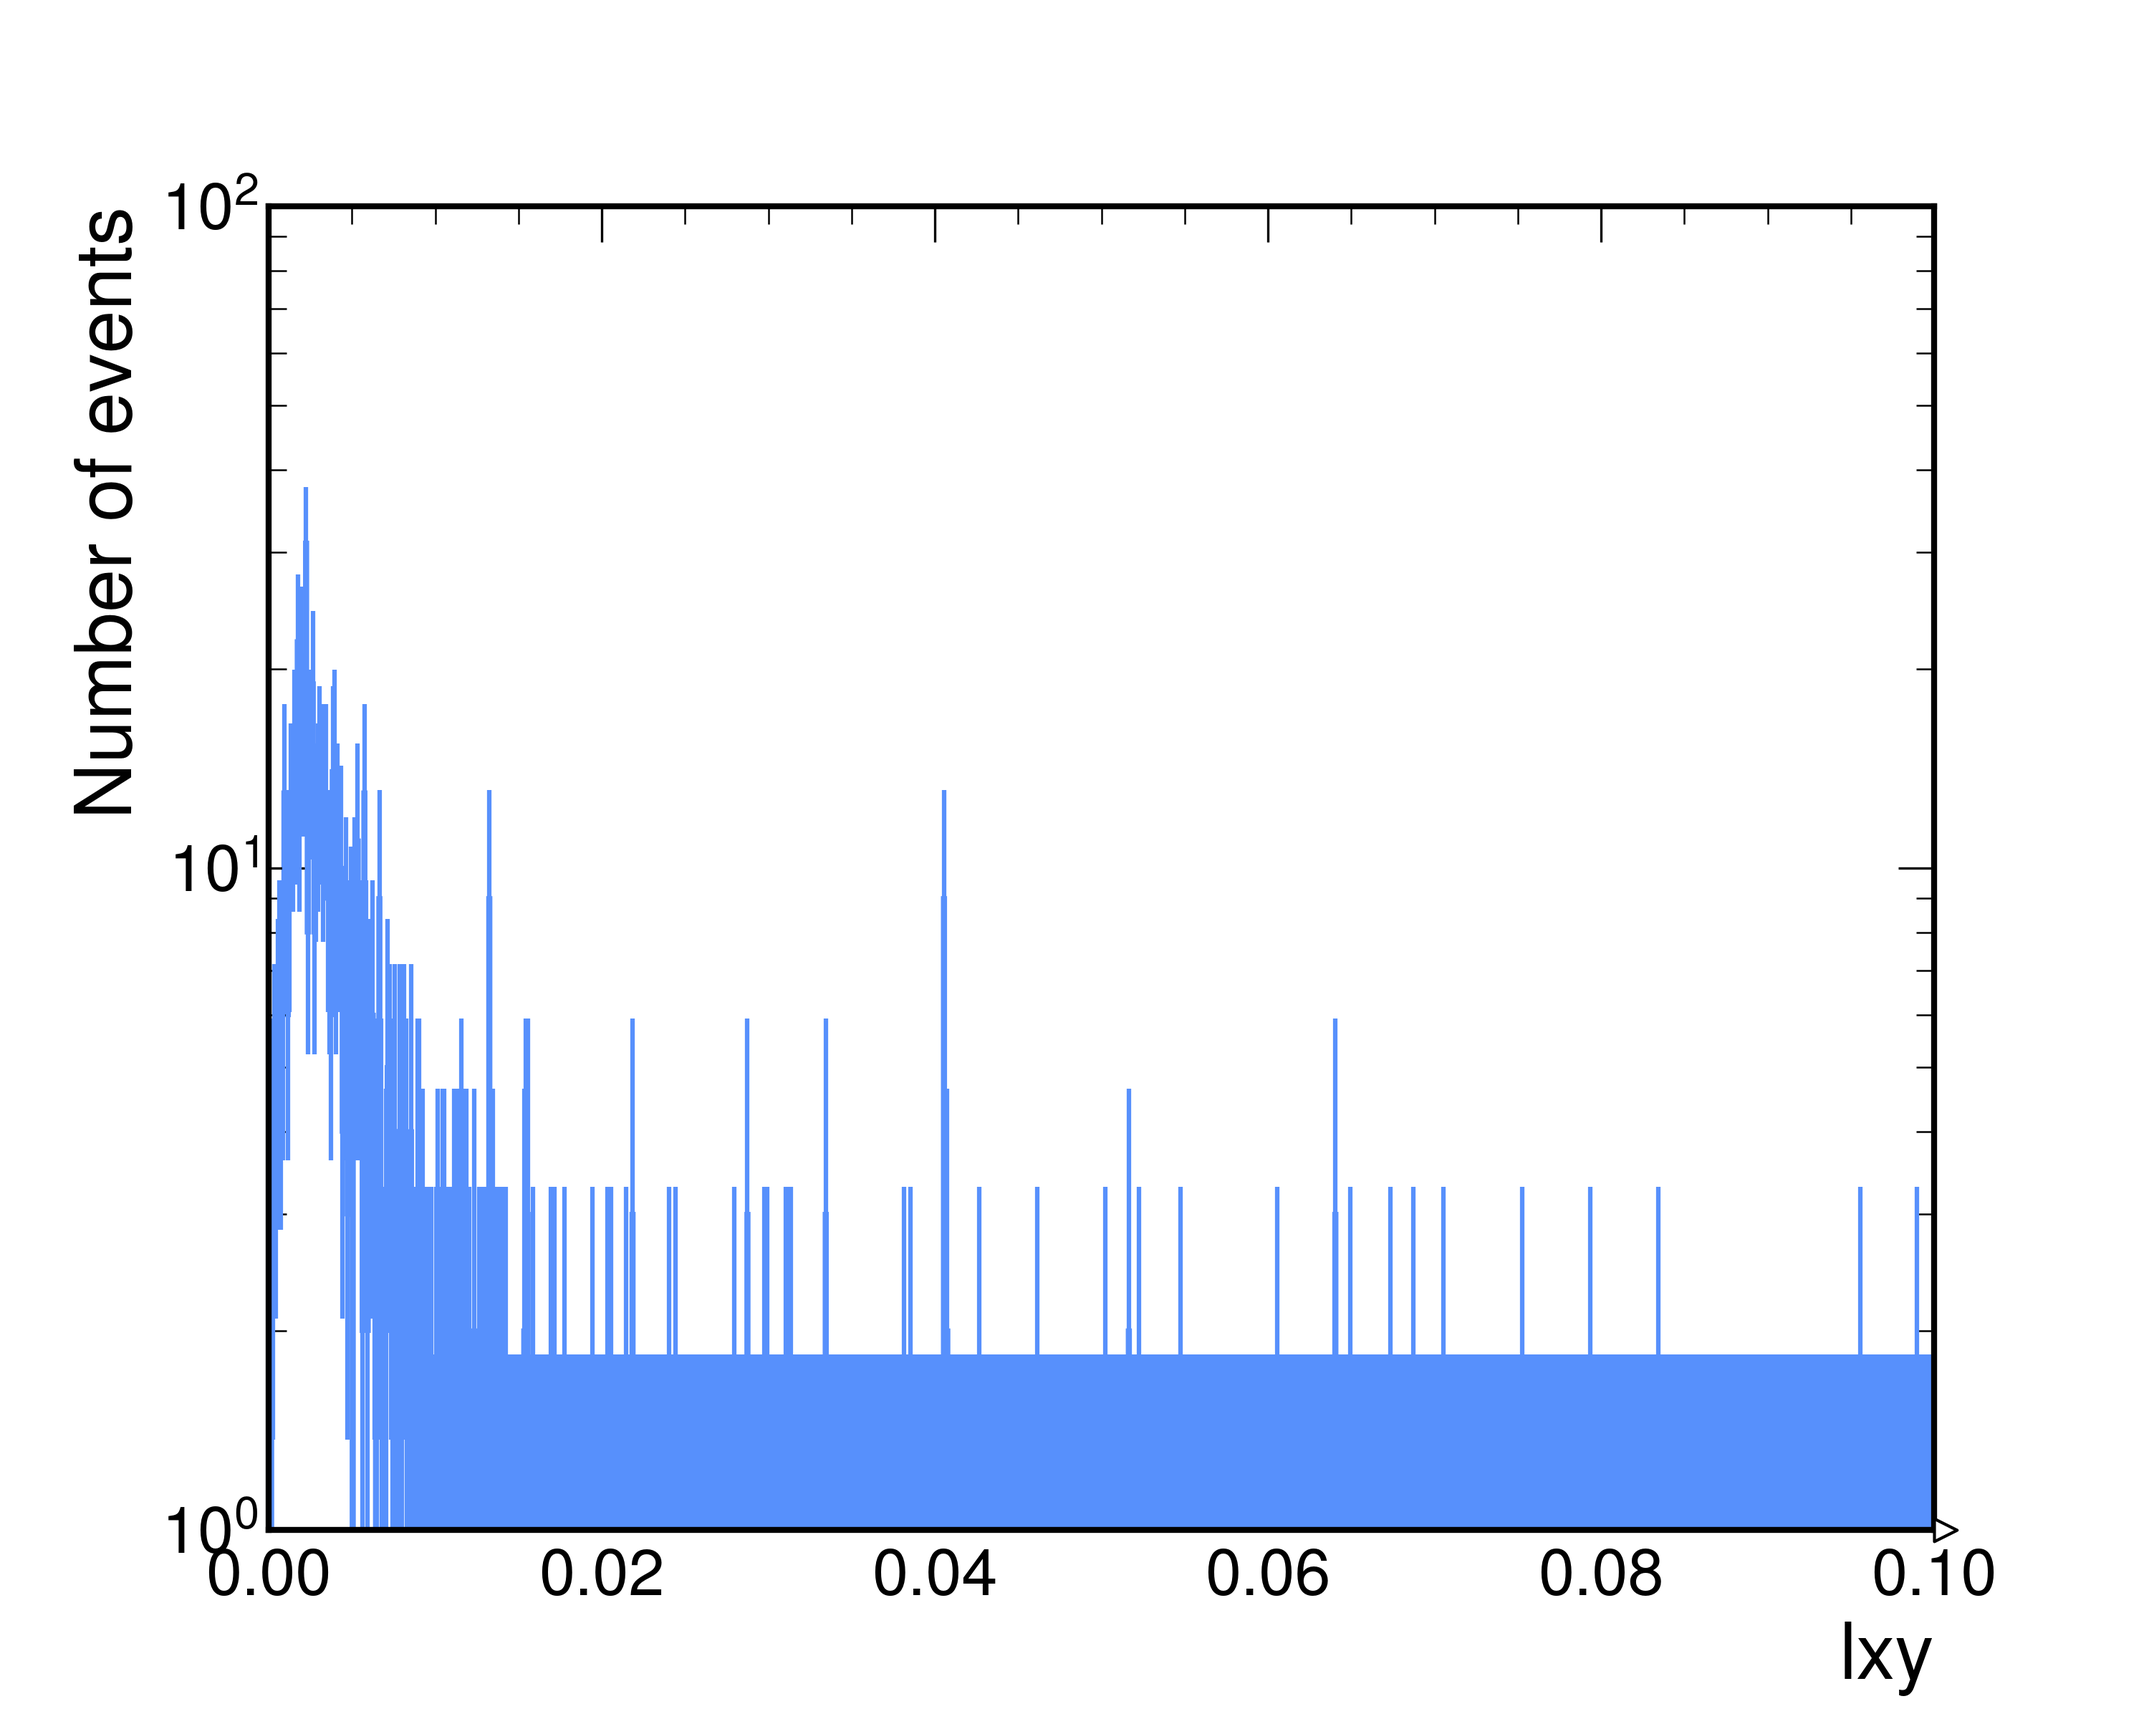
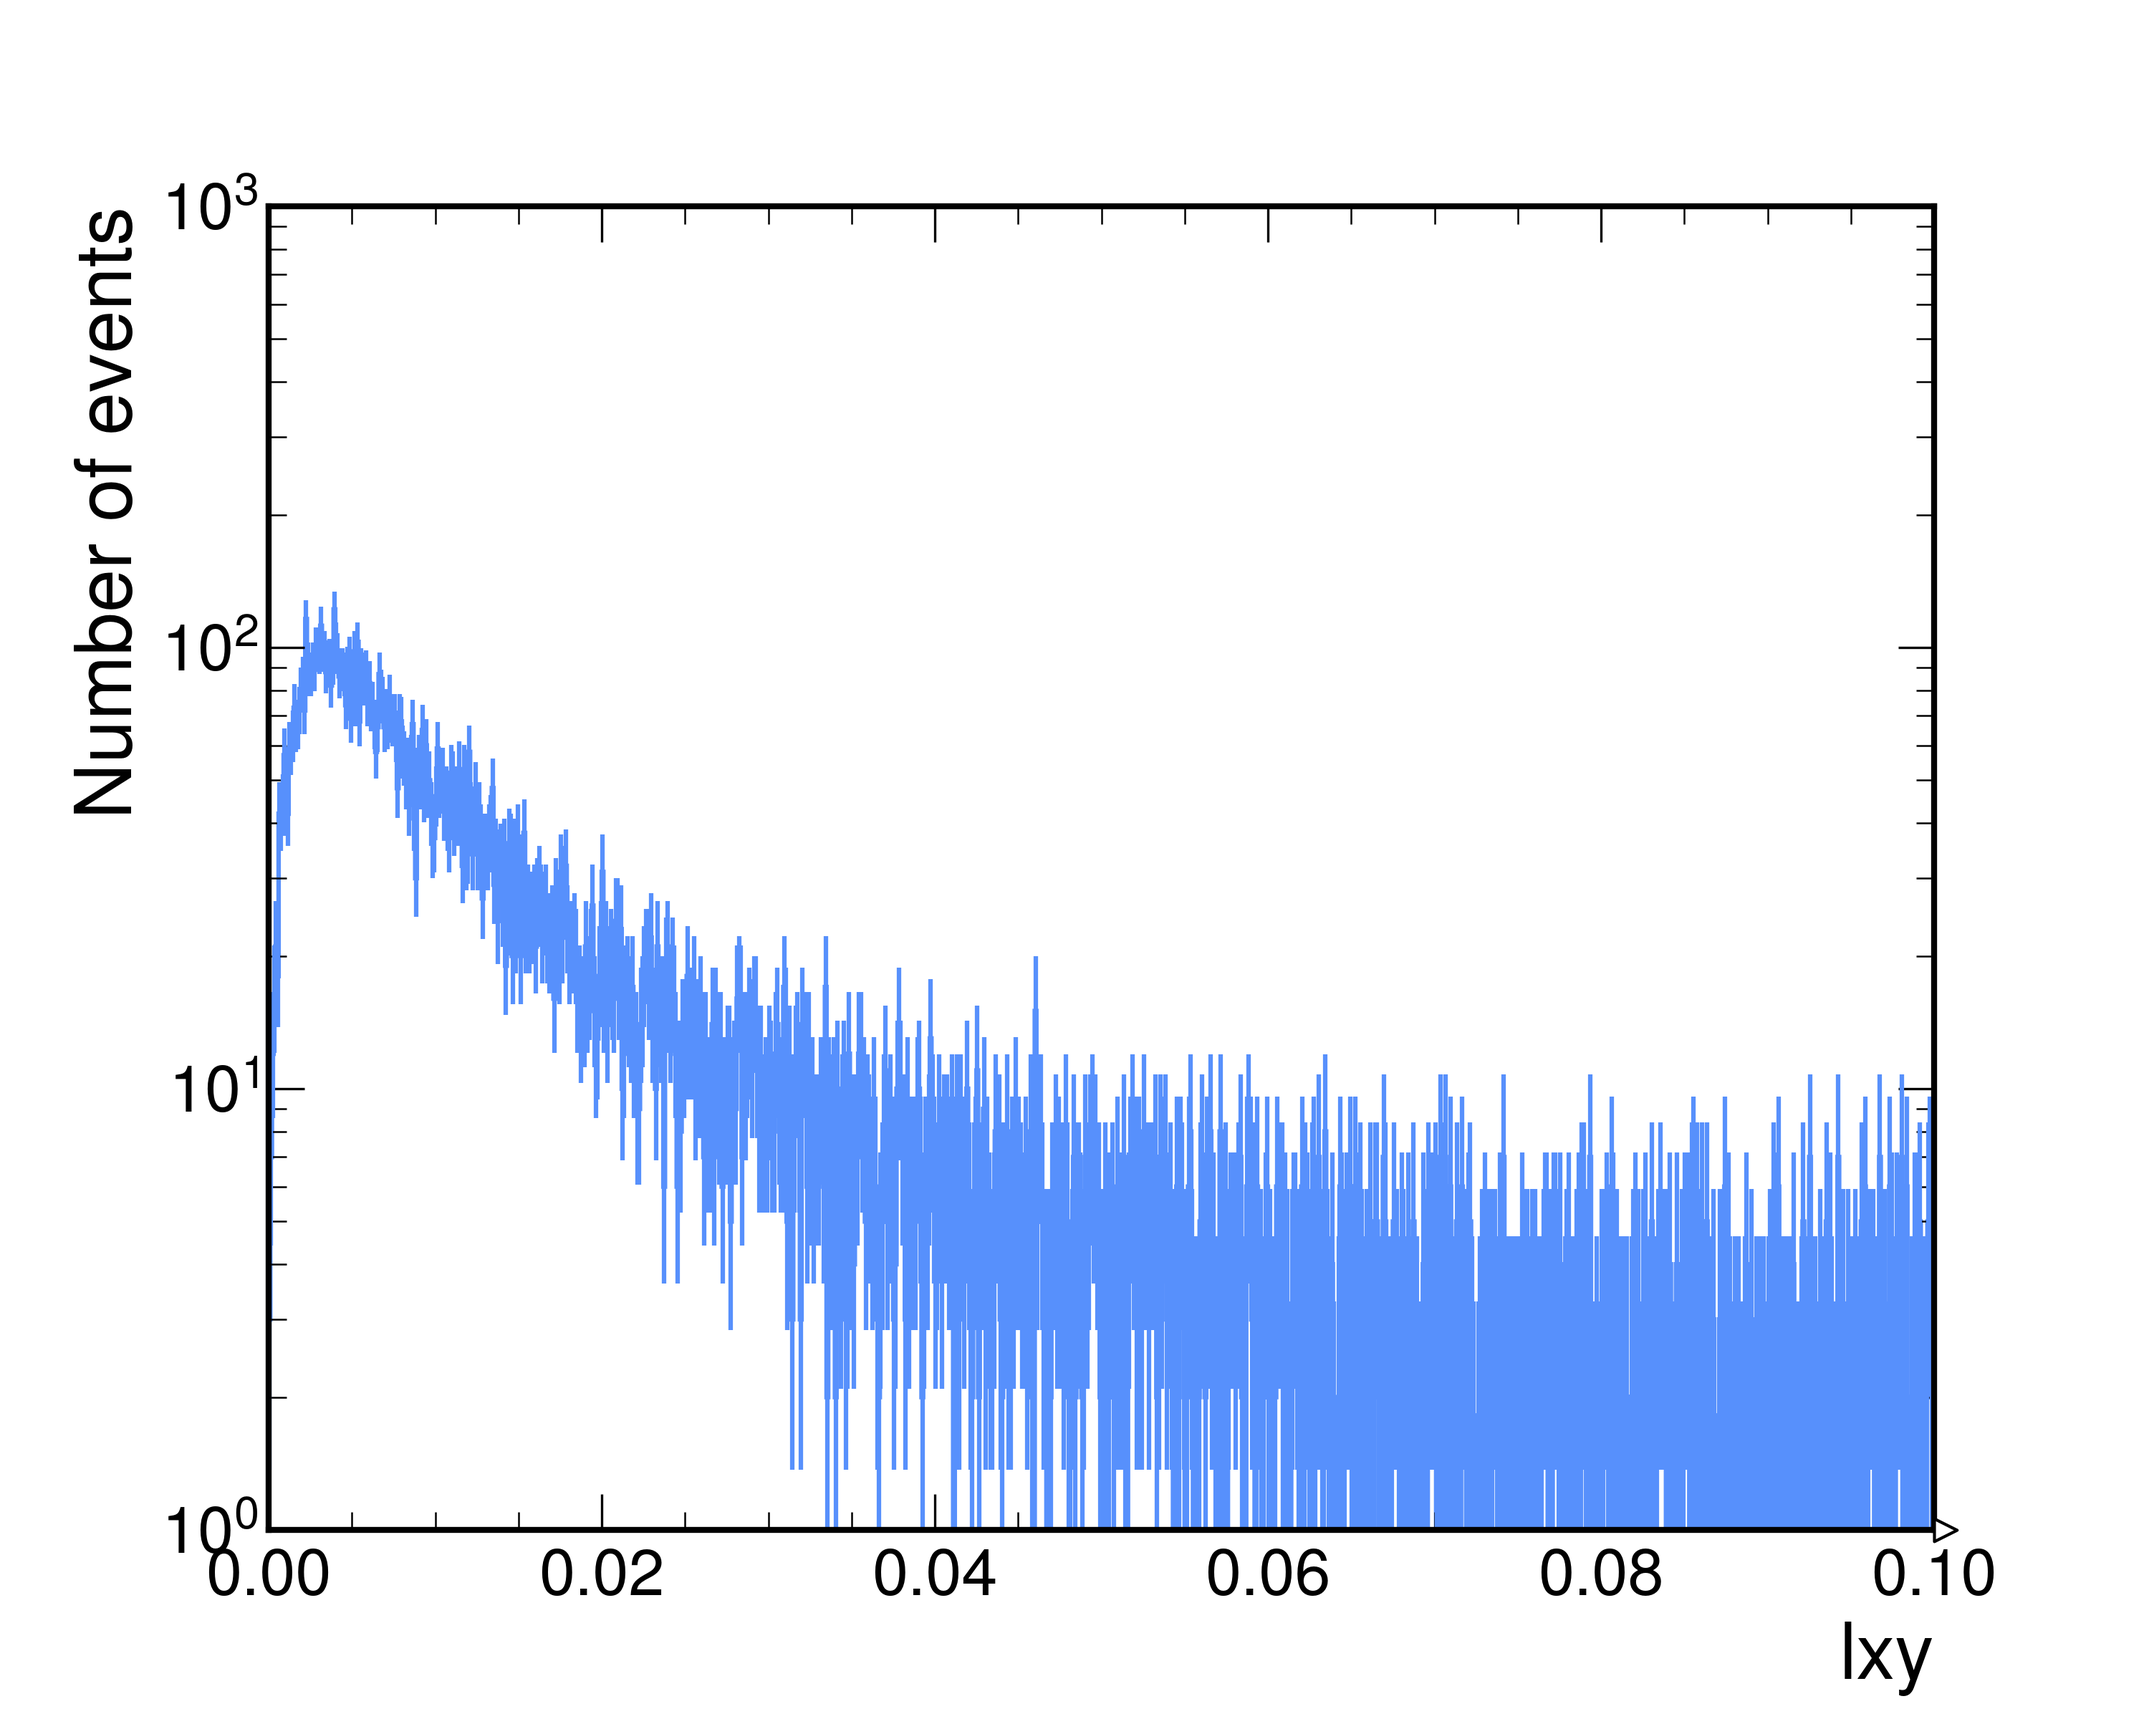
switch pt to 5

Changed region(s): [[0.093, 0.3125, 0.899, 0.9062]]

diff --git a/make.py b/make.py
@@ -96,7 +96,7 @@ finally:
     h_lxy = hist.new.Reg(1000, lxy_range[0], lxy_range[1], name="lxy", label="lxy").Double()
 
     ## Remove muons of pt less than 20 and |eta| greater than/eq to 2.4
-    mask_pt = events["ScoutingMuonNoVtx_pt"] >= 20
+    mask_pt = events["ScoutingMuonNoVtx_pt"] >= 5
     mask_eta = (abs(events["ScoutingMuonNoVtx_eta"]) < 2.4)
     combined_mask = mask_pt & mask_eta
     # print(combined_mask)
